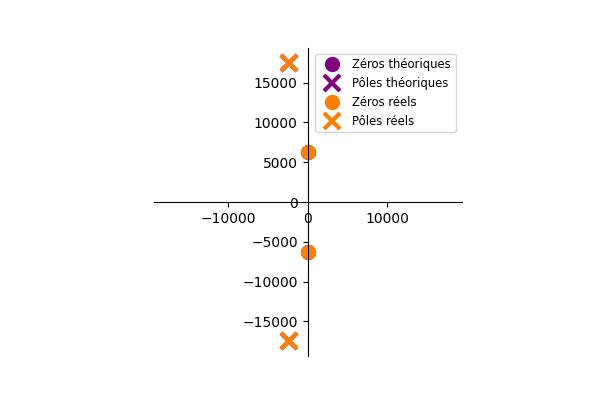
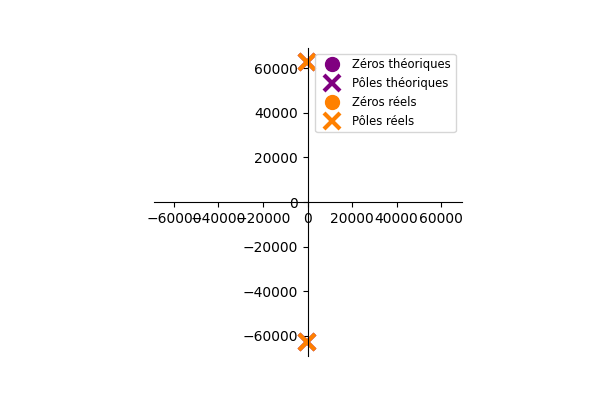
finale

diff --git a/ProjUtilsV9.py b/ProjUtilsV9.py
@@ -157,13 +157,13 @@ def Aff(N,D,n,d,p):
     G1,G2=st.columns([1,1])
     with G1: 
         st.subheader('Théorique')
-        st.write('fp = ',m.sqrt(D[2]))
-        st.write('Qp = ',m.sqrt(D[2])*D[1])
+        st.write('fp = ',m.sqrt(D[2])/(2*m.pi))
+        st.write('Qp = ',m.sqrt(D[2])/D[1])
         Write_fnT(N, D)
     with G2: 
         st.subheader('Réelle')
-        st.write('fp = ',m.sqrt(d[2]))
-        st.write('Qp = ',m.sqrt(d[2])*d[1])
+        st.write('fp = ',m.sqrt(d[2])/(2*m.pi))
+        st.write('Qp = ',m.sqrt(d[2])/d[1])
         Write_fnT(n,d)    
     z=G1.slider('Zoom (base 10)',0.0,5.0,2.0,key=p)
     w1=m.log10(m.sqrt(D[2]))+z+0.1
